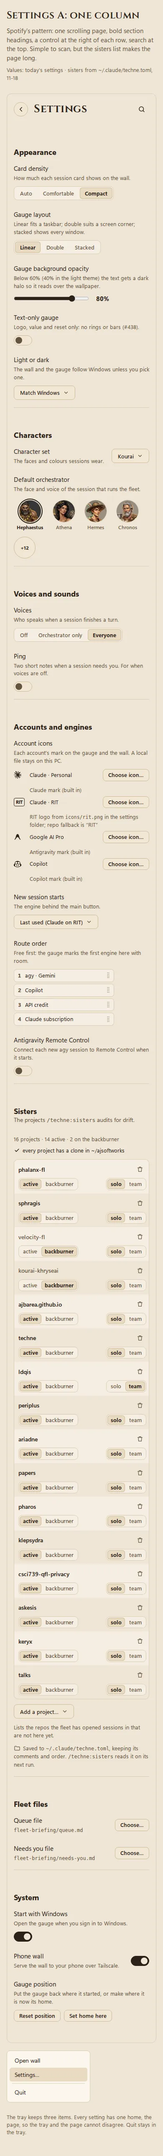
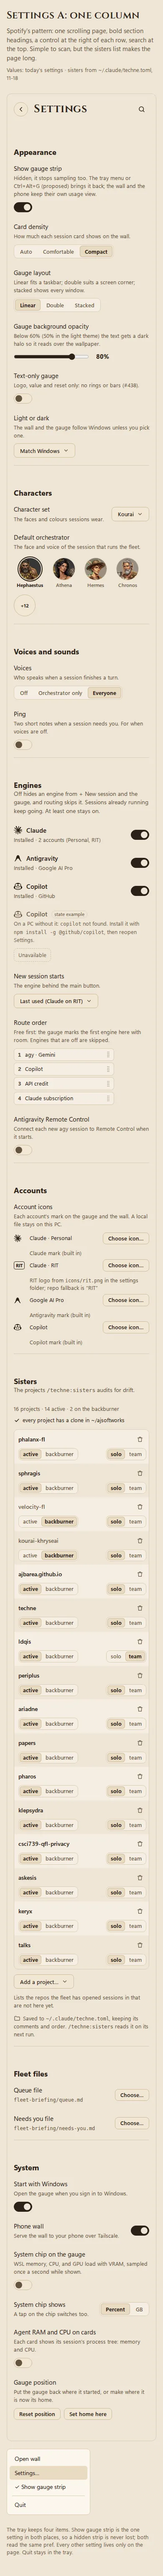
Mockups: System chip, per-card RAM/CPU, Engines and Show gauge strip
Additions from AJ's 11-18 comments on #421 and #384: an optional System
chip on both strip variants (WSL memory, CPU, GPU load with VRAM; a tap
switches % and GB; the hover adds the fleet slice's cap), a wall-cards
page with each agent's process-tree RAM and CPU, and in Settings an
Engines section (a switch per harness, a missing binary shown as
unavailable with its install hint) and a Show gauge strip switch. Real
numbers from /proc, the fleet slice cgroup and nvidia-smi at 4:00 PM.

Refs #421 #384

diff --git a/docs/mockups/2026-11-18/wall-cards.html b/docs/mockups/2026-11-18/wall-cards.html
@@ -1,0 +1,81 @@
+<!doctype html>
+<html lang="en">
+<head>
+<meta charset="utf-8">
+<meta name="viewport" content="width=device-width, initial-scale=1">
+<title>Card system line</title>
+<link rel="stylesheet" href="mock.css">
+<script src="icons.js"></script>
+<script src="readings.js"></script>
+<style>
+  /* Compact wall cards, simplified from src/fleet/wall.css (Compact density):
+     the figure, header, place and now line are reduced to what the option needs. */
+  .wall { display: grid; grid-template-columns: repeat(4, minmax(0, 1fr)); gap: 12px; }
+  .tallyb { display: flex; flex-wrap: wrap; align-items: baseline; gap: 6px 22px; color: var(--ink-dim); margin-bottom: 14px; font-size: 14px; }
+  .tallyb b { font: 600 28px/1 var(--font); font-variant-numeric: tabular-nums; color: var(--ink); margin-right: 4px; }
+  .tallyb .mem { margin-left: auto; display: inline-flex; gap: 8px; align-items: center; font-size: 13px; }
+  .tallyb .mem b { font-size: 15px; }
+  .tallyb .mem .ico { width: 16px; height: 16px; color: var(--ink-dim); }
+  .card { position: relative; background: var(--page-2); border: 1px solid var(--line); border-radius: 12px; padding: 12px 14px 8px; display: grid; gap: 8px; min-width: 0; box-shadow: inset 4px 0 0 var(--edge, var(--line)); }
+  .head { display: grid; grid-template-columns: 64px minmax(0, 1fr) auto; gap: 4px 12px; align-items: start; }
+  .face64 { width: 64px; height: 64px; border-radius: 50%; grid-row: span 2; display: grid; place-items: center; box-shadow: 0 0 0 3px var(--page-2), 0 0 0 5.5px #d9c6a5; overflow: hidden; background: var(--page-3); }
+  .face64 img { width: 100%; height: 100%; object-fit: cover; }
+  .face64 .mono { font-size: 15px; color: var(--ink-dim); }
+  .nm { font-weight: 650; font-size: 15px; }
+  .pill { display: inline-flex; align-items: center; gap: 6px; font-size: 12.5px; padding: 3px 9px; border-radius: 999px; background: var(--page-3); box-shadow: inset 0 0 0 1px var(--line); color: var(--ink-dim); white-space: nowrap; }
+  .pill::before { content: ""; width: 8px; height: 8px; border-radius: 50%; background: #d9c6a5; }
+  .task { grid-column: 2 / -1; color: var(--ink-dim); font-size: 13.5px; white-space: nowrap; overflow: hidden; text-overflow: ellipsis; }
+  .place { font-size: 13px; color: var(--ink-dim); }
+  .place b { color: var(--ink); }
+  .foot { display: flex; align-items: center; gap: 12px; min-height: 22px; color: var(--ink-quiet); font-size: 13px; }
+  .foot .more { letter-spacing: 2px; }
+  /* The option: one quiet line, the session's process tree. */
+  .sysl { display: inline-flex; align-items: center; gap: 6px; font-size: 12.5px; color: var(--ink-dim); font-variant-numeric: tabular-nums; }
+  .sysl .ico { width: 14px; height: 14px; }
+  .sysl b { color: var(--ink); font-weight: 650; }
+  .sysl .share { width: 44px; height: 4px; border-radius: 999px; background: var(--track); position: relative; overflow: hidden; }
+  .sysl .share i { position: absolute; inset: 0 auto 0 0; width: calc(var(--p) * 1%); background: var(--low); }
+  .ab { display: grid; grid-template-columns: 1fr 1fr; gap: 14px; margin-top: 18px; }
+  .ab .cap { margin-top: 6px; }
+  :root[data-theme="light"] .face64 { box-shadow: 0 0 0 3px var(--page-2), 0 0 0 5.5px #6a5640; }
+  :root[data-theme="light"] .pill::before { background: #6a5640; }
+  @media (max-width: 1100px) { .wall { grid-template-columns: repeat(2, minmax(0, 1fr)); } }
+  @media (max-width: 640px) { .wall, .ab { grid-template-columns: 1fr; } .tallyb .mem { margin-left: 0; } }
+</style>
+</head>
+<body>
+<main class="sheet" id="sheet"></main>
+<script>
+  const T = TREES, Y = SYS;
+  const totalMb = T.reduce((n, t) => n + t.mb, 0);
+  const capMb = Y.fleet.cap * 1024;
+  const repo = { "docsync-1118": "klepsydra", "design-pass": "klepsydra", "linux-458": "klepsydra", "phylax-378": "techne", "fleet-done-445": "klepsydra", Athena: "ajsoftworks" };
+  const branch = { "design-pass": "design/mockups-1118" };
+  const sysLine = (t) =>
+    `<span class="sysl" title="${t.name}'s process tree: ${t.procs} processes" aria-label="Memory ${t.mb} megabytes, CPU ${t.cpu} percent"><span class="ico">${ICON.chip}</span><b>${t.mb} MB</b>· CPU <b>${t.cpu}%</b><span class="share" style="--p:${((t.mb / capMb) * 100).toFixed(1)}" aria-hidden="true"><i></i></span></span>`;
+  const card = (t, on) => `
+    <article class="card" aria-label="${t.name}, working">
+      <div class="head">
+        <span class="face64">${t.face ? `<img src="../../../src/fleet/faces/kourai/${t.face}-96.webp" alt="">` : `<span class="mono">${t.name.slice(0, 2).toUpperCase()}</span>`}</span>
+        <span class="nm">${t.name}</span><span class="pill">working</span>
+        <span class="task">${t.task}</span>
+      </div>
+      <div class="place"><b>${repo[t.name]}</b>${branch[t.name] ? ` / ${branch[t.name]}` : ""}</div>
+      <div class="foot"><span class="more" aria-hidden="true">…</span>${on ? sysLine(t) : ""}</div>
+    </article>`;
+  document.getElementById("sheet").innerHTML = `
+<header><h1>Wall cards: RAM and CPU per agent</h1><p class="trade">An option, off by default: each card's footer shows its session's process tree, memory and CPU, with a thin bar for its share of the fleet's memory cap. The tally adds the fleet's total. The trade: one more number per card.</p><p class="stamp">Process trees: ${Y.takenAt}</p></header>
+<h2>Option on</h2>
+<p>All six live sessions, heaviest first. The bar is each tree's share of the fleet slice's ${Y.fleet.cap} GB cap.</p>
+<div class="tallyb"><span><b>${T.length}</b>working</span><span><b>0</b>needs you</span><span class="mem"><span class="ico">${ICON.chip}</span>agents <b>${(totalMb / 1024).toFixed(1)} GB</b> of the ${Y.fleet.cap} GB cap · WSL ${Y.ram.used} of ${Y.ram.total} GB</span></div>
+<div class="wall">${[...T].sort((a, b) => b.mb - a.mb).map((t) => card(t, true)).join("")}</div>
+<h2>Off and on, side by side</h2>
+<p>Off (the default) leaves the footer as it is today.</p>
+<div class="ab">
+  <figure><div class="wall" style="grid-template-columns:1fr">${card(T[0], false)}</div><figcaption class="cap">Off</figcaption></figure>
+  <figure><div class="wall" style="grid-template-columns:1fr">${card(T[0], true)}</div><figcaption class="cap">On: Athena's tree, 32 processes</figcaption></figure>
+</div>
+<p class="cap" style="margin-top:18px">Faces are simplified: only Athena's is drawn; the other sessions show their pane names. The phone wall would get the same line once the phone page's field list allows it (AGENTS.md: the phone sees only the fields the wall reads).</p>`;
+</script>
+</body>
+</html>

diff --git a/docs/mockups/2026-11-18/strip.js b/docs/mockups/2026-11-18/strip.js
@@ -91,13 +91,40 @@
     // The halo threshold follows the panel: at 50% a dark panel over a light desktop
     // drops body text to 3.3:1, while a light panel at 50% keeps its dark ink crisp.
     const light = document.documentElement.dataset.theme === "light";
-    const haloAt = light ? 40 : 60;
+    const haloAt = light ? 50 : 60;
     const halo = op < haloAt ? " halo" : op < 70 ? " thin" : "";
     const item = v === "a" ? itemA : itemB;
     const row = v === "a" ? rowA : rowB;
     const body =
-      layout === "stacked" ? accts.map((a) => row(a, opt)).join("") : accts.map((a) => item(a, opt)).join("");
+      layout === "stacked" ? accts.map((a) => row(a, opt)).join("") : accts.map((a) => item(a, opt)).join("") + (opt.sys ? (v === "a" ? sysA(opt.sys) : sysB(opt.sys)) : "");
     return `<div class="panel strip v${v} ${layout}${halo}" data-op="${op}" style="--op:${op}" role="group" aria-label="Usage, ${layout} layout">${layout === "stacked" ? "" : grip}<div class="items">${body}</div></div>`;
+  };
+
+
+  /* ── System chip (#421, AJ 11-18): optional, off by default. WSL RAM, CPU,
+        GPU load with VRAM; a tap toggles % and GB. Same grammar per variant. ── */
+  const Y = window.SYS;
+  const sysSpoken = `System: WSL memory ${Y.ram.used.toFixed(1)} of ${Y.ram.total.toFixed(1)} GB, ${Y.ram.pct}%; CPU ${Y.cpu.pct}%; GPU ${Y.gpu.pct}%, VRAM ${Y.vram.used.toFixed(1)} of ${Y.vram.total.toFixed(1)} GB`;
+  const metrics = (mode) => [
+    { k: "ram", pct: Y.ram.pct, v: mode === "gb" ? `${Y.ram.used.toFixed(1)}` : `${Y.ram.pct}%`, of: mode === "gb" ? `/${Y.ram.total.toFixed(1)} GB` : "" },
+    { k: "cpu", pct: Y.cpu.pct, v: `${Y.cpu.pct}%`, of: "" },
+    { k: "gpu", pct: Y.gpu.pct, v: `${Y.gpu.pct}%`, of: "" },
+    { k: "vram", pct: Y.vram.pct, v: mode === "gb" ? `${Y.vram.used.toFixed(1)}` : `${Y.vram.pct}%`, of: mode === "gb" ? `/${Y.vram.total.toFixed(1)} GB` : "" },
+  ];
+  const sysA = (mode = "pct") =>
+    `<div class="ra sys" role="button" tabindex="0" aria-label="${sysSpoken}. Activate to show ${mode === "gb" ? "percent" : "gigabytes"}."><span class="ico">${ICON.chip}</span>${metrics(mode)
+      .map((m) => `<span class="sm"><span class="k">${m.k}</span><b class="val">${m.v}</b>${m.of ? `<span class="of">${m.of}</span>` : ""}${pip({ pct: m.pct, label: m.k }, false)}</span>`)
+      .join("")}</div>`;
+  const sysB = (mode = "pct") => {
+    const [ram, ...rest] = metrics(mode);
+    return `<div class="rb sys" role="button" tabindex="0" aria-label="${sysSpoken}. Activate to show ${mode === "gb" ? "percent" : "gigabytes"}.">${ring({ icon: "chip" }, { pct: ram.pct }, 28)}<span class="txt"><span class="l1"><b class="val">${ram.v}</b><span class="when">${ram.of ? `of ${ram.of.slice(1)} ` : ""}ram</span></span><span class="l2">${rest
+      .map((m) => `<span class="sk">${m.k} <b>${m.v}</b>${m.of}</span>`)
+      .join("")}</span></span></div>`;
+  };
+  const sysDetail = () => {
+    const row = (label, pct, text) =>
+      `<tr><th scope="row">${label}</th><td><span class="track"><span class="fill b-${window.band(pct)}" style="--p:${pct}"></span></span></td><td class="n">${pct}%</td><td>${text}</td></tr>`;
+    return `<div class="detail panel" data-op="100" style="--op:100" role="tooltip"><div class="dh"><span class="ico">${ICON.chip}</span><b>System</b><span class="age">${Y.takenAt}</span></div><table>${row("WSL memory", Y.ram.pct, `${Y.ram.used.toFixed(1)} of ${Y.ram.total.toFixed(1)} GB · ${(Y.ram.total - Y.ram.used).toFixed(1)} GB free`)}${row("Fleet slice", Y.fleet.pct, `${Y.fleet.used.toFixed(1)} of its ${Y.fleet.cap.toFixed(1)} GB cap`)}${row("CPU", Y.cpu.pct, `${Y.cpu.cores} cores`)}${row("GPU", Y.gpu.pct, Y.gpu.name)}${row("VRAM", Y.vram.pct, `${Y.vram.used.toFixed(1)} of ${Y.vram.total.toFixed(1)} GB`)}<tr class="note"><td colspan="4">Sampled once a second while on screen. Tap the chip to switch % and GB.</td></tr></table></div>`;
   };
 
   const detail = (a) => {
@@ -147,7 +174,7 @@
 </div>
 
 <h2>Background opacity: 100, 50 and 0%</h2>
-<p>Below 60% (dark theme) or 40% (light theme) the text switches to light ink with a dark halo; between that and 70%, faint text turns full ink. A dark panel at 50% over a light desktop would otherwise leave body text near 3:1.</p>
+<p>Below 60% (dark theme) or 50% (light theme) the text switches to light ink with a dark halo; between that and 70%, faint text turns full ink. A dark panel at 50% over a light desktop would otherwise leave body text near 3:1.</p>
 <div class="opgrid">
   ${["wp-dark", "wp-light", "wp-busy"].map((w) => [100, 50, 0].map((op) => `<figure>${tile(w, strip(v, "double", A, { op }))}<figcaption class="cap">${op}% · ${wpName[w]}</figcaption></figure>`).join("")).join("")}
 </div>
@@ -162,6 +189,16 @@
   <figure>${tile(wp, strip(v, "linear", [A[0]]))}<figcaption class="cap"><b>One route.</b> agy Gemini, by the free-first order (#411). The spent claude/gpt pool stays a full pip and never leads the chip.</figcaption></figure>
 </div>
 <figure class="hover">${tile(wp, `<div class="hover-demo">${strip(v, "linear", A)}${detail(A[0])}</div>`)}<figcaption class="cap">Hover or tap a chip: every window, with its reset and the age of its reading.</figcaption></figure>
+
+<h2>System chip (optional, off by default)</h2>
+<p>Switched on in Settings, one chip joins the end of the strip: WSL memory, CPU, and GPU load paired with VRAM. A tap switches percent and GB. Real numbers from ${Y.takenAt}. No FPS.</p>
+<figure class="wide">${tile(wp, strip(v, "linear", A, { sys: "pct" }))}<figcaption class="cap">Linear with the System chip on</figcaption></figure>
+<div class="layouts" style="margin-top:18px">
+  <figure>${tile(wp, `<div class="panel strip v${v} linear" data-op="100" style="--op:100"><div class="items">${v === "a" ? sysA("pct") : sysB("pct")}</div></div>`)}<figcaption class="cap">Percent (default)</figcaption></figure>
+  <figure>${tile(wp, `<div class="panel strip v${v} linear" data-op="100" style="--op:100"><div class="items">${v === "a" ? sysA("gb") : sysB("gb")}</div></div>`)}<figcaption class="cap">GB, after a tap</figcaption></figure>
+</div>
+<figure class="hover">${tile(wp, `<div class="hover-demo">${strip(v, "linear", A, { sys: "pct" })}<div class="sys-detail-wrap">${sysDetail()}</div></div>`)}<figcaption class="cap">Hover the System chip: the fleet slice's own cap (the limit the fleet hits first) beside WSL's total.</figcaption></figure>
+
 `;
     },
   };

diff --git a/docs/mockups/2026-11-18/settings.js b/docs/mockups/2026-11-18/settings.js
@@ -35,6 +35,9 @@
     .map(([i, m, n, d]) => `<div class="acct">${i ? I(i) : `<span class="mono">${m}</span>`}<span class="an">${n}</span><span class="ad">${d}</span>${btn("Choose icon…", "small")}</div>`)
     .join("");
 
+  // Engines (#384, AJ 11-18): one switch per harness; all three binaries are on this PC.
+  const engineRow = (icon, mono, name, desc, on) =>
+    row(`${icon ? I(icon) : `<span class="mono">${mono}</span>`} ${name}`, desc, toggle(on, `${name} on`), "eng-row");
   const order = ["agy · Gemini", "Copilot", "API credit", "Claude subscription"];
   const orderList = `<ol class="order" aria-label="Route order">${order.map((o) => `<li><span class="handle" aria-hidden="true">${window.ICON.grip}</span>${o}</li>`).join("")}</ol>`;
 
@@ -66,9 +69,10 @@
     {
       id: "appearance", icon: "palette", title: "Appearance",
       rows: [
+        row("Show gauge strip", "Hidden, it stops sampling too. The tray menu or Ctrl+Alt+G (proposed) brings it back; the wall and the phone keep their own usage view.", toggle(true, "Show gauge strip")),
         row("Card density", "How much each session card shows on the wall.", seg(["Auto", "Comfortable", "Compact"], "Compact", "Card density")),
         row("Gauge layout", "Linear fits a taskbar; double suits a screen corner; stacked shows every window.", seg(["Linear", "Double", "Stacked"], "Linear", "Gauge layout")),
-        row("Gauge background opacity", "Below 60% (40% in the light theme) the text gets a dark halo so it reads over the wallpaper.", slider(80)),
+        row("Gauge background opacity", "Below 60% (50% in the light theme) the text gets a dark halo so it reads over the wallpaper.", slider(80)),
         row("Text-only gauge", "Logo, value and reset only: no rings or bars (#438).", toggle(false, "Text-only gauge")),
         row("Light or dark", "The wall and the gauge follow Windows unless you pick one.", select("Match Windows", "Light or dark")),
       ],
@@ -88,12 +92,22 @@
       ],
     },
     {
-      id: "engines", icon: "plug", title: "Accounts and engines",
+      id: "engines", icon: "plug", title: "Engines",
+      lead: "Off hides an engine from + New session and the gauge, and routing skips it. Sessions already running keep going. At least one stays on.",
+      rows: [
+        engineRow("claude", "", "Claude", "Installed · 2 accounts (Personal, RIT)", true),
+        engineRow("agy", "", "Antigravity", "Installed · Google AI Pro", true),
+        engineRow("copilot", "", "Copilot", "Installed · GitHub", true),
+        `<div class="row eng-missing" aria-label="State example"><div class="rl"><span class="lab">${I("copilot")} Copilot <span class="ex">state example</span></span><span class="desc">On a PC without it: <code>copilot</code> not found. Install it with <code>npm install -g @github/copilot</code>, then reopen Settings.</span></div><div class="rc"><span class="unavail">Unavailable</span></div></div>`,
+        row("New session starts", "The engine behind the main button.", select("Last used (Claude on RIT)", "New session default")),
+        row("Route order", "Free first: the gauge marks the first engine here with room. Engines that are off are skipped.", orderList, "tall"),
+        row("Antigravity Remote Control", "Connect each new agy session to Remote Control when it starts.", toggle(false, "Antigravity Remote Control")),
+      ],
+    },
+    {
+      id: "accounts", icon: "person", title: "Accounts",
       rows: [
         row("Account icons", "Each account's mark on the gauge and the wall. A local file stays on this PC.", `<div class="accts">${acctRows}</div>`, "tall stack"),
-        row("New session starts", "The engine behind the main button.", select("Last used (Claude on RIT)", "New session default")),
-        row("Route order", "Free first: the gauge marks the first engine here with room.", orderList, "tall"),
-        row("Antigravity Remote Control", "Connect each new agy session to Remote Control when it starts.", toggle(false, "Antigravity Remote Control")),
       ],
     },
     {
@@ -113,6 +127,9 @@
       rows: [
         row("Start with Windows", "Open the gauge when you sign in to Windows.", toggle(true, "Start with Windows")),
         row("Phone wall", "Serve the wall to your phone over Tailscale.", toggle(true, "Phone wall")),
+        row("System chip on the gauge", "WSL memory, CPU, and GPU load with VRAM, sampled once a second while shown.", toggle(false, "System chip on the gauge")),
+        row("System chip shows", "A tap on the chip switches too.", seg(["Percent", "GB"], "Percent", "System chip shows")),
+        row("Agent RAM and CPU on cards", "Each card shows its session's process tree: memory and CPU.", toggle(false, "Agent RAM and CPU on cards")),
         row("Gauge position", "Put the gauge back where it started, or make where it is now its home.", `${btn("Reset position", "small")} ${btn("Set home here", "small")}`),
       ],
     },

diff --git a/docs/mockups/2026-11-18/readings.js b/docs/mockups/2026-11-18/readings.js
@@ -1,6 +1,6 @@
 // The readings every mockup shows: klepsydra's newest reading per account,
 // taken Wed 18 Nov 2026 at 1:23 PM EST from
-// %LOCALAPPDATA%\dev.ajsoftworks.klepsydra\accounts\<id>\*.json.
+// the app data folder (accounts/<id>/*.json).
 // Percentages are the readings' used_percentage, rounded; reset times are
 // their resets_at in local time; "in" is resets_at minus 1:23 PM.
 // klepsydra rewrites a session's file in place, so the files on disk move on;
@@ -113,3 +113,28 @@ window.FACE = (who) =>
   who === "worker"
     ? `<span class="face-dot" title="1 agent" aria-hidden="true"></span>`
     : `<img class="face" src="../../../src/fleet/faces/kourai/${who}-96.webp" alt="" title="${who[0].toUpperCase() + who.slice(1)}">`;
+
+// System snapshot, Wed 18 Nov 4:00 PM EST (#421, AJ 11-18): /proc/meminfo
+// (MemTotal 10186852 kB, MemAvailable 3981872 kB), the fleet slice's cgroup
+// (memory.current 5496434688, memory.max 8820621312), /proc/stat over 1 s
+// (276 of 612 jiffies busy), nvidia-smi (RTX 3060 Ti, 12 %, 6179 of 8192 MiB).
+// GB here are GiB, as Windows Task Manager shows them. No FPS (AJ 11-18).
+window.SYS = {
+  takenAt: "Wed 18 Nov, 4:00 PM EST",
+  ram: { used: 5.9, total: 9.7, pct: 61, label: "WSL memory" },
+  fleet: { used: 5.1, cap: 8.2, pct: 62, label: "fleet slice" },
+  cpu: { pct: 45, cores: 6 },
+  gpu: { name: "RTX 3060 Ti", pct: 12 },
+  vram: { used: 6.0, total: 8.0, pct: 75 },
+};
+
+// Each session's process tree from its pid (/proc/<pid>/stat RSS and CPU
+// ticks over 1 s, 4:00 PM). Names are the fleet's pane names.
+window.TREES = [
+  { name: "Athena", role: "orchestrator", task: "Heph to Athena orchestrator handover", face: "athena", mb: 715, cpu: 3, procs: 32 },
+  { name: "docsync-1118", task: "klepsydra docsync", mb: 909, cpu: 12, procs: 9 },
+  { name: "design-pass", task: "klepsydra gauge strip mockups", mb: 603, cpu: 5, procs: 15 },
+  { name: "phylax-378", task: "Phylax fail-closed hooks (techne #378)", mb: 567, cpu: 4, procs: 13 },
+  { name: "linux-458", task: "klepsydra PR 458 Debian launch parity", mb: 498, cpu: 4, procs: 9 },
+  { name: "fleet-done-445", task: "Fleet done report for klepsydra #445 and #446", mb: 470, cpu: 1, procs: 15 },
+];

diff --git a/docs/mockups/2026-11-18/strip.css b/docs/mockups/2026-11-18/strip.css
@@ -136,10 +136,23 @@ figure { min-width: 0; }
   .sa-row .cell { grid-column: 2; justify-content: start; }
   .sa-row .cell:empty { display: none; }
   .sb-row { min-width: 0; }
-  .sb-row .line { grid-template-columns: 70px 1fr 34px auto; }
-  .sb-row .line .t { white-space: nowrap; }
+  .sb-row .line { grid-template-columns: auto minmax(24px, 1fr) auto auto; }
+  .sb-row .line :is(.lbl, .t) { white-space: nowrap; }
   .detail { min-width: 0; width: 100%; }
   .detail td:nth-child(2) { width: 50px; }
   .strip.double .items { grid-template-columns: auto; }
   .va.double .ra:nth-child(even)::before { display: none; }
 }
+
+/* ── System chip (#421, AJ 11-18) ── */
+.ra.sys { gap: 10px; }
+.ra.sys .sm { display: inline-flex; align-items: baseline; gap: 4px; }
+.ra.sys .k, .rb.sys .sk { font-variant-caps: all-small-caps; letter-spacing: 0.05em; font-size: 13px; color: var(--panel-dim); }
+.ra.sys .of { font-size: 12px; opacity: 0.86; }
+.ra.sys .pip { align-self: center; height: 12px; }
+.rb.sys .l2 { gap: 8px; height: auto; }
+.rb.sys .sk b { color: var(--panel-ink); font-size: 12.5px; letter-spacing: 0; font-variant-caps: normal; }
+.va.linear .ra.sys::before, .vb.linear .rb.sys::before { opacity: 0.9; }
+.sys-detail-wrap { justify-self: end; }
+@media (max-width: 640px) { .sys-detail-wrap { justify-self: stretch; } .ra.sys { flex-wrap: wrap; row-gap: 4px; } }
+.rb.sys .sk { white-space: nowrap; }

diff --git a/docs/mockups/2026-11-18/icons.js b/docs/mockups/2026-11-18/icons.js
@@ -2,6 +2,7 @@
 // src/fleet/wall.js (Simple Icons, CC0; the Antigravity mark); #421 asks the
 // build to move that set to one shared module. UI glyphs are drawn here.
 window.ICON = {
+ "chip": "<svg viewBox=\"0 0 24 24\" fill=\"none\" stroke=\"currentColor\" stroke-width=\"1.8\" stroke-linecap=\"round\" aria-hidden=\"true\"><rect x=\"6\" y=\"6\" width=\"12\" height=\"12\" rx=\"1.5\"/><rect x=\"9.5\" y=\"9.5\" width=\"5\" height=\"5\" rx=\"0.5\"/><path d=\"M9 3v3M15 3v3M9 18v3M15 18v3M3 9h3M3 15h3M18 9h3M18 15h3\"/></svg>",
  "palette": "<svg viewBox=\"0 0 24 24\" fill=\"none\" stroke=\"currentColor\" stroke-width=\"1.8\" stroke-linejoin=\"round\" aria-hidden=\"true\"><path d=\"M12 3a9 9 0 1 0 0 18c1.2 0 1.8-.9 1.4-1.9-.4-1 .2-2.1 1.3-2.1H17a4 4 0 0 0 4-4c0-5.5-4-10-9-10Z\"/><circle cx=\"7.5\" cy=\"11\" r=\"1.2\"/><circle cx=\"10.5\" cy=\"7\" r=\"1.2\"/><circle cx=\"15.5\" cy=\"8\" r=\"1.2\"/></svg>",
  "person": "<svg viewBox=\"0 0 24 24\" fill=\"none\" stroke=\"currentColor\" stroke-width=\"1.8\" stroke-linecap=\"round\" aria-hidden=\"true\"><circle cx=\"12\" cy=\"8\" r=\"4\"/><path d=\"M4 21c1-4 4.5-6 8-6s7 2 8 6\"/></svg>",
  "speaker": "<svg viewBox=\"0 0 24 24\" fill=\"none\" stroke=\"currentColor\" stroke-width=\"1.8\" stroke-linecap=\"round\" stroke-linejoin=\"round\" aria-hidden=\"true\"><path d=\"M4 10v4h4l5 4V6L8 10Z\"/><path d=\"M16.5 8.5a5 5 0 0 1 0 7M19 6a8.5 8.5 0 0 1 0 12\"/></svg>",

diff --git a/docs/mockups/2026-11-18/mock.css b/docs/mockups/2026-11-18/mock.css
@@ -123,10 +123,12 @@ body {
   font-variant-numeric: tabular-nums lining-nums;
 }
 .panel[data-op]:not([data-op="0"]) { -webkit-backdrop-filter: blur(12px); backdrop-filter: blur(12px); }
-/* Below the halo threshold (strip.js: 60% dark, 40% light) the panel no longer carries the text: HUD ink (light, with a
+/* Below the halo threshold (strip.js: 60% dark, 50% light) the panel no longer carries the text: HUD ink (light, with a
    dark halo, never a light one) takes over in either theme. */
 /* Part see-through: faint text would fall under 4.5:1, so it takes the full ink. */
 .panel.thin { --panel-dim: var(--panel-ink); }
+/* A light panel at 50% over a dark desktop needs its darkest ink to clear 4.5:1. */
+:root[data-theme="light"] .panel.thin { --panel-ink: #120c07; --panel-dim: #120c07; }
 .panel.halo {
   --panel-ink: #f7f1e6;
   --panel-dim: #efe6d6;

diff --git a/docs/mockups/2026-11-18/settings-a.html b/docs/mockups/2026-11-18/settings-a.html
@@ -19,8 +19,8 @@
 </header>
 <div class="window"><div class="set-a" id="a"></div></div>
 <div class="tray">
-  <div class="traymenu" aria-label="Tray menu after"><span>Open wall</span><span>Settings…</span><hr><span>Quit</span></div>
-  <p class="cap" style="max-width:52ch">The tray keeps three items. Every setting has one home, the page, so the tray and the page cannot disagree. Quit stays in the tray.</p>
+  <div class="traymenu" aria-label="Tray menu after"><span>Open wall</span><span>Settings…</span><span>✓ Show gauge strip</span><hr><span>Quit</span></div>
+  <p class="cap" style="max-width:52ch">The tray keeps four items. Show gauge strip is the one setting in both places, so a hidden strip is never lost; both read the same pref. Every other setting lives only on the page. Quit stays in the tray.</p>
 </div>
 </main>
 <script>

diff --git a/docs/mockups/2026-11-18/settings.css b/docs/mockups/2026-11-18/settings.css
@@ -125,3 +125,11 @@ code { font-family: ui-monospace, "Cascadia Mono", Consolas, monospace; font-siz
   .pane { padding: 18px 12px 32px; }
   .cards .row { padding: 12px; }
 }
+
+/* Engines (#384, AJ 11-18) */
+.eng-row .lab, .eng-missing .lab { display: inline-flex; align-items: center; gap: 10px; font-weight: 600; }
+.eng-row .lab .ico, .eng-missing .lab .ico { width: 20px; height: 20px; }
+.eng-missing .lab { color: var(--ink-dim); }
+.eng-missing .ex { font-size: 11.5px; font-weight: 500; padding: 1px 7px; border-radius: 999px; box-shadow: inset 0 0 0 1px var(--line); color: var(--ink-quiet); }
+.unavail { font-size: 12.5px; color: var(--ink-dim); padding: 6px 10px; border-radius: 8px; border: 1px dashed var(--button-line); }
+.eng-missing { opacity: 0.9; }

diff --git a/docs/mockups/2026-11-18/settings-b.html b/docs/mockups/2026-11-18/settings-b.html
@@ -19,6 +19,8 @@
 </header>
 <div class="window"><div class="set-b" id="b1"></div></div>
 <p class="cap">Appearance, the page the gear opens first.</p>
+<div class="window" style="margin-top:24px"><div class="set-b" id="b3"></div></div>
+<p class="cap">Engines: a switch per harness (11-18).</p>
 <div class="window" style="margin-top:24px"><div class="set-b" id="b2"></div></div>
 <p class="cap">Sisters: the techne.toml editor (11-18).</p>
 </main>
@@ -32,6 +34,7 @@
   };
   document.getElementById("b1").innerHTML = win("appearance");
   document.getElementById("b2").innerHTML = win("sisters");
+  document.getElementById("b3").innerHTML = win("engines");
 </script>
 </body>
 </html>

diff --git a/docs/mockups/2026-11-18/shoot.py b/docs/mockups/2026-11-18/shoot.py
@@ -18,6 +18,7 @@ PAGES = [
     "new-session-b",
     "settings-a",
     "settings-b",
+    "wall-cards",
 ]
 SIZES = [(1920, 1080), (390, 844)]
 THEMES = ["dark", "light"]

diff --git a/docs/mockups/2026-11-18/review.md b/docs/mockups/2026-11-18/review.md
@@ -11,9 +11,20 @@ Mockups for the gauge strip (#421, #438), + New session (#440) and the settings 
 | [light](shots/design-gauge-a-1920-light.webp) · [phone dark](shots/design-gauge-a-390-dark.webp) · [phone light](shots/design-gauge-a-390-light.webp) | [light](shots/design-gauge-b-1920-light.webp) · [phone dark](shots/design-gauge-b-390-dark.webp) · [phone light](shots/design-gauge-b-390-light.webp) |
 | Text first, like NVIDIA's HUD: logo, bold value, reset, one small pip per window. It reads at 0% opacity over the dark and light desktops; over a busy wallpaper the small reset times thin out. The trade: a pip is a smaller status cue than a ring. | Today's ring, one per account, with the logo inside it and each account's agents docked beside it. Strongest at a glance. The trade: its hairline bars fade once the panel goes, and at 56 px it overhangs a 48 px taskbar (A is 47 px). |
 
-Both have the three NVIDIA layouts on one switch (linear, double, stacked), and the 100/50/0% opacity grid over dark, light and busy wallpaper. Below 60% (dark theme) or 40% (light theme) the text switches to light ink with a dark halo; between that and 70%, faint text turns full ink. Without it, a dark panel at 50% over a light desktop leaves body text near 3:1. Both also show the states: out until reset (session hidden), an old reading dimmed with its age, the Copilot placeholder, and one route mark (agy Gemini). Linear width with 4 chips: **671 px (A), 634 px (B)**, against about 1,700 px for today's 7 meters. Neither layout changes width between 1920 and 1366.
+Both have the three NVIDIA layouts on one switch (linear, double, stacked), and the 100/50/0% opacity grid over dark, light and busy wallpaper. Below 60% (dark theme) or 50% (light theme) the text switches to light ink with a dark halo; between that and 70%, faint text turns full ink. Without it, a dark panel at 50% over a light desktop leaves body text near 3:1. Both also show the states: out until reset (session hidden), an old reading dimmed with its age, the Copilot placeholder, and one route mark (agy Gemini). Linear width with 4 chips: **671 px (A), 634 px (B)**, against about 1,700 px for today's 7 meters. Neither layout changes width between 1920 and 1366.
 
 **Recommendation: A, with B's docked faces.** #438 makes 0% a real setting, and A reads best there. A is also the less wordy one you asked for (logo, value, time). The faces docked to their account fix the "separate avatars" problem in #421 and move over to A unchanged.
+
+## System monitor (optional, AJ 11-18)
+
+| On the strip (both variants) | On the wall cards |
+|---|---|
+| [![A](shots/design-gauge-a-1920-dark.webp)](shots/design-gauge-a-1920-dark.webp) (bottom of each gauge page) | [![cards](shots/design-wall-cards-1920-dark.webp)](shots/design-wall-cards-1920-dark.webp) |
+| One System chip, off by default: WSL memory, CPU, GPU load with VRAM; a tap switches % and GB; the hover adds the fleet slice's own cap. | Each card's footer shows its process tree's memory and CPU, with a thin bar for its share of the fleet cap; the tally adds the total. [light](shots/design-wall-cards-1920-light.webp) · [phone](shots/design-wall-cards-390-dark.webp) |
+
+Real numbers from 4:00 PM: WSL 5.9 of 9.7 GB (61%), fleet slice 5.1 of its 8.2 GB cap, CPU 45%, RTX 3060 Ti at 12% with 6.0 of 8.0 GB VRAM. The six agents' trees add up to 3.7 GB, the largest 909 MB (docsync). No FPS. Both settings rows (chip, and RAM/CPU on cards) sit in Settings › System, off.
+
+**Recommendation:** ship the chip in A's grammar, in percent, with the hover as the place for GB and the fleet cap. The card line is cheap and answers "who is eating the 9.7 GB", so it is worth having as an option.
 
 ## + New session
 
@@ -35,7 +46,7 @@ Both show agy's real `agy models` list, with the spent Claude & GPT group disabl
 | [light](shots/design-settings-a-1920-light.webp) · [phone dark](shots/design-settings-a-390-dark.webp) · [phone light](shots/design-settings-a-390-light.webp) | [light](shots/design-settings-b-1920-light.webp) · [phone dark](shots/design-settings-b-390-dark.webp) · [phone light](shots/design-settings-b-390-light.webp) |
 | Spotify's pattern: one page, bold section headings, the control at the right, search at the top. The trade: the 16-row sisters list makes it long. | Windows 11's pattern: a section rail with search, one card per setting. The trade: a second navigation system inside a small app. |
 
-Both hold every setting from the tray and the gear (#384's inventory), plus gauge layout, opacity and text-only mode, account icons, route order, the new-session default and the sisters editor. The editor shows the real 16 projects from `~/.claude/techne.toml` (read only), each with its status and kind; all 16 have a clone. The tray shrinks to Open wall, Settings and Quit.
+Both hold every setting from the tray and the gear (#384's inventory), plus Show gauge strip (on; hidden, it stops sampling, and the tray brings it back), gauge layout, opacity and text-only mode, an Engines section with a switch per harness (off hides it from + New session and the strip and routing skips it; a missing binary shows Unavailable with its install hint), account icons, route order, the new-session default, the System chip and card RAM/CPU switches, and the sisters editor. The editor shows the real 16 projects from `~/.claude/techne.toml` (read only), each with its status and kind; all 16 have a clone. The tray shrinks to Open wall, Settings, Show gauge strip and Quit.
 
 **Recommendation: A**, the Spotify page you named, with the sisters list folded under a "16 projects" expander (not drawn here) so the page stays short. Seven sections fit one scroll; a rail pays off only with many more.
 
